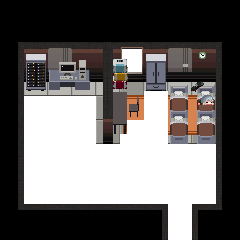
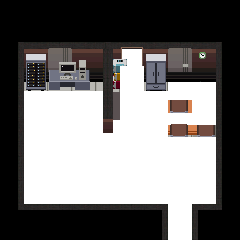
【0层工程】namsek的404小屋已经实装完毕
G11作为npc贴图待议

Changed region(s): [[0.0875, 0.2625, 0.6125, 0.6125], [0.7, 0.3208, 0.9042, 0.525], [0.7, 0.5542, 0.9042, 0.6125]]

diff --git a/core/src/main/java/com/shatteredpixel/shatteredpixeldungeon/levels/Room404.java b/core/src/main/java/com/shatteredpixel/shatteredpixeldungeon/levels/Room404.java
@@ -72,9 +72,15 @@ public class Room404 extends Level {
         int stairsUp = (SIZE - 1) * width() + (SIZE - 3);
         placeTrigger(new UpStairsTrigger().create(stairsUp));
 
+        // 添加底部覆盖贴图
         CustomTilemap customBottomTile = new CustomBottomTile();
         customBottomTile.setRect(0, 0, width(), height());
         customTiles.add(customBottomTile);
+        
+        // 添加墙体覆盖贴图
+        CustomTilemap customWallTile = new CustomWallTile();
+        customWallTile.setRect(0, 0, width(), height());
+        customWalls.add(customWallTile);
 
         return true;
     }
@@ -92,6 +98,26 @@ public class Room404 extends Level {
             if (vis != null) {
                 // 使用mapSimpleImage方法，将texW参数设置为240（10*24）
                 // 这样每个格子会使用room.png中对应的24*24像素贴图
+                int[] data = mapSimpleImage(0, 0, 240);
+                vis.map(data, tileW);
+            }
+            return vis;
+        }
+    }
+    
+    public static class CustomWallTile extends CustomTilemap {
+        {
+            texture = Assets.Environment.ROOM404_1;
+            tileW = SIZE;
+            tileH = SIZE;
+        }
+
+        @Override
+        public Tilemap create() {
+            super.create();
+            if (vis != null) {
+                // 使用mapSimpleImage方法，将texW参数设置为240（10*24）
+                // 这样每个格子会使用room404-1.png中对应的24*24像素贴图
                 int[] data = mapSimpleImage(0, 0, 240);
                 vis.map(data, tileW);
             }
@@ -152,15 +178,15 @@ public class Room404 extends Level {
     // 硬编码的地图数组
     // 10x10的房间，四周是墙，内部是空地，右下角有一个向上的楼梯
     private static final int[] MAP = {
-        W, W, W, W, W, W, W, W, W, W,
-        W, W, W, W, W, W, W, W, W, W,
-        W, eW, eW, eW, eW, eW, eW, eW, eW, W,
-        W, eW, eW, eW, eW, eW, eW, eW, eW, W,
-        W, e, e, e, e, e, e, e, e, W,
-        W, e, e, e, e, e, e, e, e, W,
-        W, e, e, e, e, e, e, e, e, W,
-        W, e, e, e, e, e, e, e, e, W,
-        W, e, e, e, e, e, e, e, e, W,
-        W, W, W, e, e, e, e, X, W, W
+        W,  W,  W,  W,  W,  W,  W,  W,  W,  W,
+        W,  W,  W,  W,  W,  W,  W,  W,  W,  W,
+        W, eW, eW, eW, eW, eW, eW, eW, eW,  W,
+        W, eW, eW, eW, eW,  e, eW, eW, eW,  W,
+        W,  e,  e,  e, eW,  e,  e,  e, eW,  W,
+        W, eW, eW,  e, eW,  e,  e,  e,  e,  W,
+        W, eW, eW,  e,  e,  e,  e,  e,  e,  W,
+        W,  e,  e,  e,  e,  e,  e,  e,  e,  W,
+        W,  e,  e,  e,  e,  e,  e,  e,  e,  W,
+        W,  W,  W,  e,  e,  e,  e,  X,  W,  W
     };
 }

diff --git a/core/src/main/java/com/shatteredpixel/shatteredpixeldungeon/Assets.java b/core/src/main/java/com/shatteredpixel/shatteredpixeldungeon/Assets.java
@@ -91,9 +91,11 @@ public class Assets {
 		public static final String WATER_CITY   = "environment/water3.png";
 		public static final String WATER_HALLS  = "environment/water4.png";
 
+		//need Organize
 		public static final String WEAK_FLOOR       = "environment/custom_tiles/weak_floor.png";
 		public static final String ZERO_LEVEL       = "environment/custom_tiles/zero_level.png";
 		public static final String ROOM             = "environment/custom_tiles/room.png";
+		public static final String ROOM404_1        = "environment/custom_tiles/room404-1.png";
 		public static final String SEWER_BOSS       = "environment/custom_tiles/sewer_boss.png";
 		public static final String PRISON_QUEST     = "environment/custom_tiles/prison_quests.png";
 		public static final String PRISON_EXIT      = "environment/custom_tiles/prison_exit.png";
